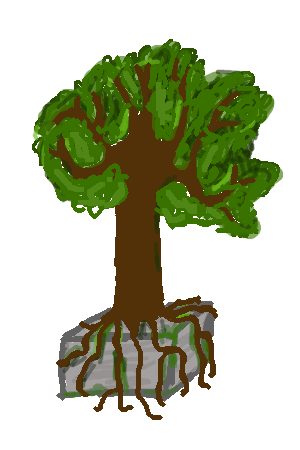
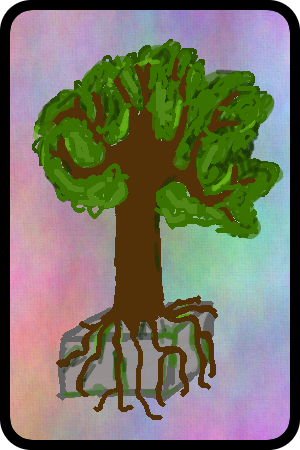
new card images

diff --git a/todo.md b/todo.md
@@ -6,8 +6,8 @@
  - [x] Implement Background "Image"
  - [ ] Add images to Background "Image"
  - [ ] City "Image"
- - [ ] Update Population Count
- - [ ] Population Increase in Cities
+ - [x] Update Population Count
+ - [x] Population Increase in Cities
  - [ ] Icons of last actions
  - [ ] Fix dead cities spawning cars
  - [ ] Airplanes
@@ -16,6 +16,9 @@
 ## Design
 
  - [ ] Make Game Fun
+ - [ ] Give roads more meaning
+ - [ ] Adjust action probabilities
+ - [ ] Save up one card
 
 ## Music
 

diff --git a/images.md b/images.md
@@ -1,6 +1,6 @@
 # Required Images
 
- - [ ] Card Background
+ - [x] Card Background
  - [x] Card Foreground
  - [x] Card Road
  - [x] Card City
@@ -23,7 +23,7 @@
  - [x] Cursor/Icon Action Bear Attack
  - [x] Cursor/Icon Action Forest Fire
  - [ ] A few small houses
- - [ ] Street (Repeatable)
+ - [x] Street (Repeatable)
  - [ ] A few cars
  - [ ] Icon Population
  - [ ] Heart
